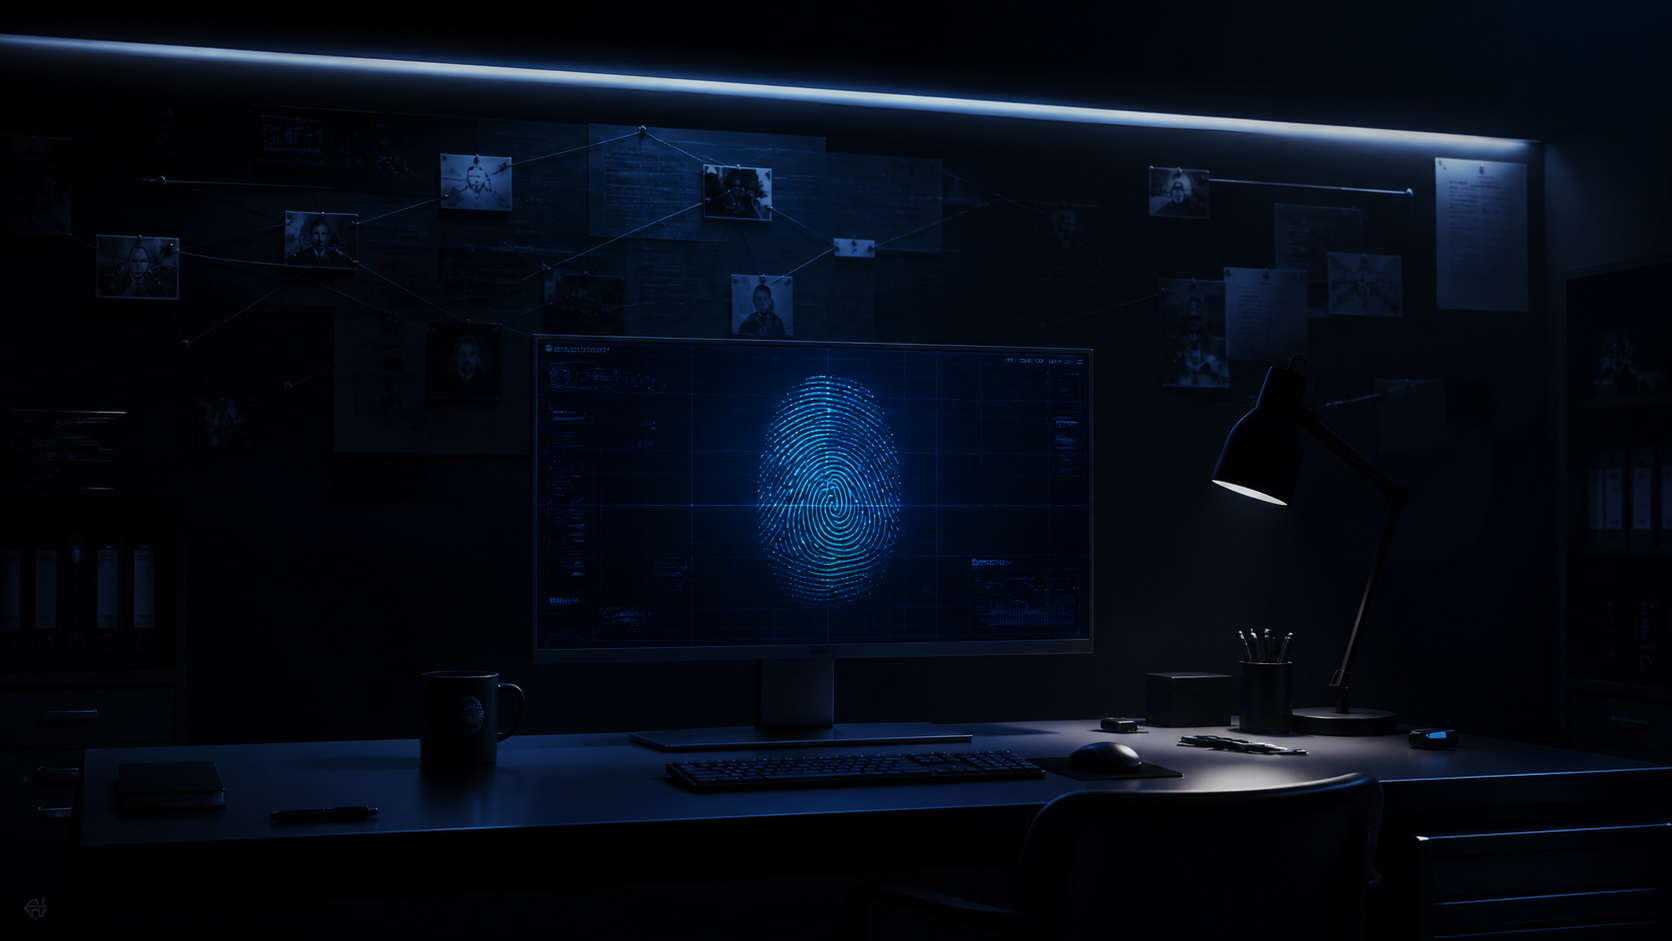
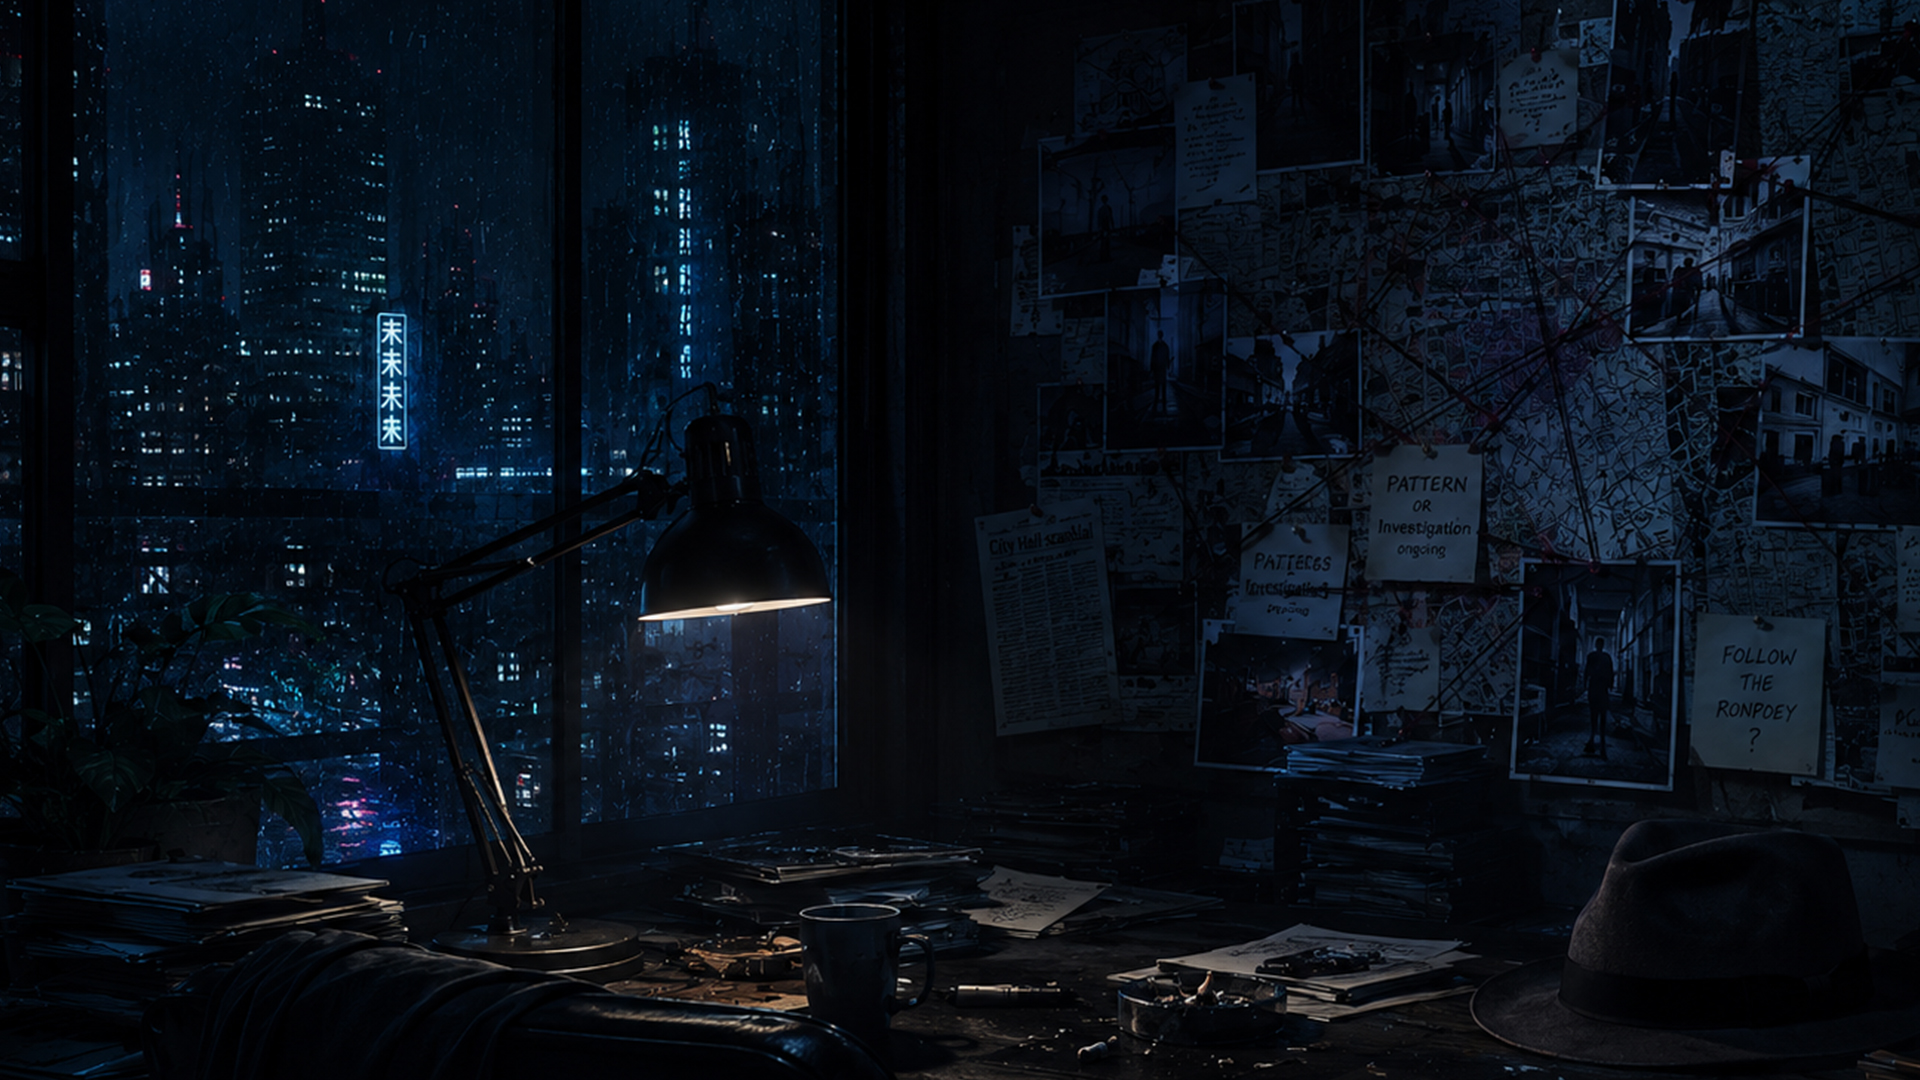
update

diff --git a/src/components/Browser.jsx b/src/components/Browser.jsx
@@ -1134,14 +1134,9 @@ function Home({ navigateInNewTab }) {
 
 
 
-          <div className="site" onClick={openMailInNewTab}>
-
-
-
-            MAIL <span>OneMail</span>
-
-
-
+          <div className="site" onClick={openMailInNewTab} title="OneMail" aria-label="OneMail">
+            <div className="site-icon" aria-hidden="true">✉</div>
+            <div className="site-label">OneMail</div>
           </div>
 
 
@@ -1150,14 +1145,9 @@ function Home({ navigateInNewTab }) {
 
 
 
-          <div className="site" onClick={openDarkTraceInNewTab}>
-
-
-
-            DARK TRACE <span>Public Agency</span>
-
-
-
+          <div className="site" onClick={openDarkTraceInNewTab} title="DARK TRACE" aria-label="DARK TRACE">
+            <div className="site-icon" aria-hidden="true">🕵</div>
+            <div className="site-label">Dark Trace</div>
           </div>
 
 
@@ -1166,14 +1156,9 @@ function Home({ navigateInNewTab }) {
 
 
 
-          <div className="site" onClick={openNewsInNewTab}>
-
-
-
-            NEWS <span>News</span>
-
-
-
+          <div className="site" onClick={openNewsInNewTab} title="News" aria-label="News">
+            <div className="site-icon" aria-hidden="true">📰</div>
+            <div className="site-label">News</div>
           </div>
 
 

diff --git a/src/styles/desktop.css b/src/styles/desktop.css
@@ -446,6 +446,24 @@
   transition: all 0.3s ease;
 }
 
+.site-icon {
+  font-size: 34px;
+  line-height: 1;
+  color: #ffffff;
+  text-shadow: 0 6px 18px rgba(0, 0, 0, 0.35);
+  user-select: none;
+}
+
+.site-label {
+  margin-top: 10px;
+  font-size: 13px;
+  font-weight: 600;
+  color: rgba(255, 255, 255, 0.9);
+  letter-spacing: 0.3px;
+  text-transform: none;
+  user-select: none;
+}
+
 .site:hover {
   background: #3a3d45;
   border-color: #ff1b2d;
